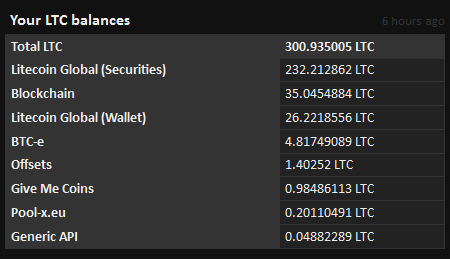
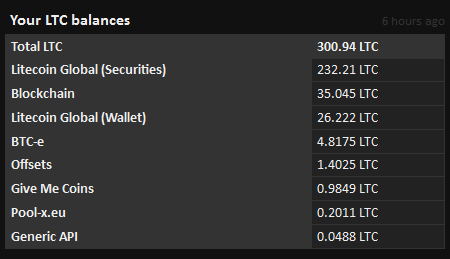
adding Your Currencies page, displaying all currency balances separated into tabs
git-svn-id: https://openclerk.googlecode.com/svn/trunk@414 b12a1112-ca08-e5dd-f792-535eff3abf3b

diff --git a/js/accounts.js b/js/accounts.js
@@ -73,7 +73,13 @@ $(document).ready(function() {
 		});
 
 		// sort by title on page load
-		$(headings[0]).find(".sort_up").click();
+		if ($(table).find("thead th.default_sort_up").length > 0) {
+			$(table).find("thead th.default_sort_up").find(".sort_up").click();
+		} else if ($(table).find("thead th.default_sort_down").length > 0) {
+			$(table).find("thead th.default_sort_down").find(".sort_down").click();
+		} else {
+			$(headings[0]).find(".sort_up").click();
+		}
 	});
 });
 
@@ -117,6 +123,11 @@ function sortBy(table, index, ascending) {
 function getSortValue(e) {
 	if ($(e).find("span.address code").length > 0) {
 		return $(e).find("span.address code").text().trim();
+	}
+	if ($(e).find("span.currency_format").length > 0 && $(e).find("span.currency_format").attr('title')) {
+		// currency value: strip out " cur"
+		var val = $(e).find("span.currency_format").attr('title').trim();
+		return parseFloat(val.substring(0, val.lastIndexOf(" ")).replace(",", ""));
 	}
 	if ($(e).find("span").length > 0 && $(e).find("span").attr('title')) {
 		return $(e).find("span").attr('title').trim();

diff --git a/default.css b/default.css
@@ -30,7 +30,7 @@ table.standard tr.odd { background: #292929; }
 table.standard th { min-width: 40px; }
 table.standard td { min-width: 60px; }
 table.standard td.date { white-space: nowrap; }
-table.standard td.number { text-align: right; }
+table.standard td.number, table.standard th.number { text-align: right; }
 table.full-width { width: 100%; }
 table.standard ul { margin: 0; padding: 0; margin-left: 1.1em; }
 

diff --git a/your_currencies.php b/your_currencies.php
@@ -1,0 +1,124 @@
+<?php
+
+/**
+ * This page displays all of your currencies with tabs and the current values of each
+ * type of balance.
+ */
+
+require(__DIR__ . "/inc/global.php");
+require_login();
+
+require(__DIR__ . "/layout/templates.php");
+page_header("Your Currencies", "page_your_currencies", array('jquery' => true, 'js' => array('common', 'accounts'), 'class' => 'report_page'));
+
+$user = get_user(user_id());
+
+require(__DIR__ . "/_profile_common.php");
+
+// get all pages
+$q = db()->prepare("SELECT * FROM graph_pages WHERE user_id=? AND is_removed=0 ORDER BY page_order ASC, id ASC");
+$q->execute(array(user_id()));
+$pages = $q->fetchAll();
+
+// get all of our latest balances
+$balances = array();
+$last_updated = array();
+require(__DIR__ . "/graphs/util.php");
+foreach (get_all_summary_currencies() as $cur => $summary) {
+	$balances[$cur] = array();
+}
+
+$q = db()->prepare("SELECT * FROM balances WHERE user_id=? AND is_recent=1");
+$q->execute(array(user_id()));
+while ($balance = $q->fetch()) {
+	if (isset($balances[$balance['currency']])) {
+		if (!isset($balances[$balance['currency']][$balance['exchange']])) {
+			$balances[$balance['currency']][$balance['exchange']] = 0;
+		}
+		$balances[$balance['currency']][$balance['exchange']] += demo_scale($balance['balance']);
+		$last_updated[$balance['exchange']] = $balance['created_at'];
+	}
+}
+
+// remove empty currencies
+$temp = array();
+foreach ($balances as $cur => $data) {
+	if ($data) {
+		$temp[$cur] = $data;
+	}
+}
+ksort($temp);
+$balances = $temp;
+
+// now print out tabs and tables for each currency
+
+?>
+
+<!-- page list -->
+<?php
+$page_id = -1;
+$your_currencies = true;
+require(__DIR__ . "/_profile_pages.php");
+?>
+
+<span style="display:none;" id="sort_buttons_template">
+<!-- heading sort buttons -->
+<span class="sort_up" title="Sort ascending">Asc</span><span class="sort_down" title="Sort descending">Desc</span>
+</span>
+
+<div class="tabs" id="tabs_your_currencies">
+	<ul class="tab_list">
+		<?php
+		/* each <li> must not have any whitespace between them otherwise whitespace will appear when rendered */
+		foreach ($balances as $currency => $data) {
+			echo '<li id="tab_currencies_' . htmlspecialchars($currency) . '"><span class="currency_name_' . htmlspecialchars($currency) . '">' . htmlspecialchars(strtoupper($currency)) . '</span></li>';
+		} ?>
+	</ul>
+
+	<ul class="tab_groups">
+		<?php foreach ($balances as $currency => $data) { ?>
+		<li id="tab_currencies_<?php echo htmlspecialchars($currency); ?>_tab">
+
+<table class="standard standard_account_list">
+<thead>
+	<tr>
+		<th class="source">Source</th>
+		<th class="updated">Last updated</th>
+		<th class="balance default_sort_down">Balance</th>
+	</tr>
+</thead>
+<tbody>
+<?php
+$count = 0;
+$sum = 0;
+foreach ($data as $exchange => $balance) {
+	$sum += $balance; ?>
+	<tr class="<?php echo $count % 2 == 0 ? "odd" : "even"; ?>">
+		<td><?php echo htmlspecialchars(get_exchange_name($exchange)); ?></td>
+		<td><?php echo recent_format_html($last_updated[$exchange]); ?></td>
+		<td class="number"><?php echo currency_format($currency, $balance, 4); ?></td>
+	</tr>
+<?php } ?>
+</tbody>
+<tfoot>
+	<tr>
+		<th colspan="2">Total <?php echo htmlspecialchars(get_currency_name($currency)); ?></th>
+		<th class="number"><?php echo currency_format($currency, $sum, 4); ?></th>
+	</tr>
+</tfoot>
+</table>
+
+		</li>
+		<?php } ?>
+	</ul>
+</div>
+
+<script type="text/javascript">
+$(document).ready(function() {
+	initialise_tabs('#tabs_your_currencies');
+});
+</script>
+
+<?php
+
+page_footer();

diff --git a/profile.php b/profile.php
@@ -28,21 +28,12 @@ if ($user['needs_managed_update']) {
 	update_user_managed_graphs($user);
 }
 
-// get all pages
-$q = db()->prepare("SELECT * FROM graph_pages WHERE user_id=? AND is_removed=0 ORDER BY page_order ASC, id ASC");
-$q->execute(array(user_id()));
-$pages = $q->fetchAll();
+require(__DIR__ . "/_profile_common.php");
 
 // reset stats
 if (get_site_config('timed_sql')) {
 	echo "<!-- " . db()->stats() . " -->\n";
 }
-
-// how many securities do we have?
-$q = db()->prepare("SELECT COUNT(*) AS c FROM securities WHERE user_id=? AND is_recent=1");
-$q->execute(array(user_id()));
-$count = $q->fetch();
-$securities_count = $count['c'];
 
 if (get_site_config('new_user_premium_update_hours') && strtotime($user['created_at']) >= strtotime("-" . get_site_config('new_user_premium_update_hours') . " hour")) {
 	// does a non-zero report exist yet for this user?
@@ -169,32 +160,14 @@ if ($pages) {
 
 	}
 
-	page_header(require_get("securities", false) ? $page_title : "Your Reports: " . $page_title, "page_profile", array('common_js' => true, 'jsapi' => true, 'jquery' => true, 'js' => 'profile'));
+	page_header(require_get("securities", false) ? $page_title : "Your Reports: " . $page_title, "page_profile", array('common_js' => true, 'jsapi' => true, 'jquery' => true, 'js' => 'profile', 'class' => 'report_page'));
 
 ?>
 
 <div id="page<?php echo htmlspecialchars($page_id); ?>">
 
-<!-- list of pages -->
-<ul class="page_list">
-<?php $first = true; foreach ($pages as $page) {
-	$args = array('page' => $page['id']);
-	if (require_get("demo", false)) {
-		$args['demo'] = require_get("demo");
-	} ?>
-	<li class="page_tab<?php echo htmlspecialchars($page['id']); ?><?php if (!require_get("securities", false) && (!$page_id || $page['id'] == $page_id)) echo " page_current"; ?>"><a href="<?php echo htmlspecialchars(url_for('profile', $args)); ?>">
-		<?php echo htmlspecialchars($page['title']); ?>
-	</a></li>
-<?php $first = false; } ?>
-	<?php
-	$args = array('securities' => 1);
-	if (require_get("demo", false)) {
-		$args['demo'] = require_get("demo");
-	} ?>
-	<li class="page_tabsecurities<?php if (require_get("securities", false)) echo " page_current"; ?> premium"><a href="<?php echo htmlspecialchars(url_for('profile', $args)); ?>">
-		Your Securities (<?php echo number_format($securities_count); ?>)
-	</a></li>
-</ul>
+<!-- page list -->
+<?php require(__DIR__ . "/_profile_pages.php"); ?>
 
 <?php if (!require_get("securities", false)) { ?>
 <div class="enable_editing">
@@ -276,7 +249,7 @@ if (!$graphs) { ?>
 <?php } else {
 	/* no pages */
 
-	page_header("Your Reports", "page_profile", array('common_js' => true, 'jsapi' => true, 'jquery' => true, 'js' => 'profile'));
+	page_header("Your Reports", "page_profile", array('common_js' => true, 'jsapi' => true, 'jquery' => true, 'js' => 'profile', 'class' => 'report_page'));
 	?>
 
 <div class="message">

diff --git a/_profile_pages.php b/_profile_pages.php
@@ -1,0 +1,28 @@
+
+<ul class="page_list">
+<?php $first = true; foreach ($pages as $page) {
+	$args = array('page' => $page['id']);
+	if (require_get("demo", false)) {
+		$args['demo'] = require_get("demo");
+	} ?>
+	<li class="page_tab<?php echo htmlspecialchars($page['id']); ?><?php if (!require_get("securities", false) && (!$page_id || $page['id'] == $page_id)) echo " page_current"; ?>"><a href="<?php echo htmlspecialchars(url_for('profile', $args)); ?>">
+		<?php echo htmlspecialchars($page['title']); ?>
+	</a></li>
+<?php $first = false; } ?>
+	<?php
+	$args = array();
+	if (require_get("demo", false)) {
+		$args['demo'] = require_get("demo");
+	} ?>
+	<li class="page_tabcurrencies<?php if (isset($your_currencies) && $your_currencies) echo " page_current"; ?>"><a href="<?php echo htmlspecialchars(url_for('your_currencies', $args)); ?>">
+		Your Currencies <span class="new">new</span>
+	</a></li>
+	<?php
+	$args = array('securities' => 1);
+	if (require_get("demo", false)) {
+		$args['demo'] = require_get("demo");
+	} ?>
+	<li class="page_tabsecurities<?php if (require_get("securities", false)) echo " page_current"; ?> premium"><a href="<?php echo htmlspecialchars(url_for('profile', $args)); ?>">
+		Your Securities (<?php echo number_format($securities_count); ?>)
+	</a></li>
+</ul>

diff --git a/templates/screenshots.php b/templates/screenshots.php
@@ -29,6 +29,8 @@
 			'text2' => 'Premium users can add technical indicators to graphs, such as Simple Moving Average (SMA), Bollinger Bands (BOLL) and Relative Strength Index (RSI).',
 			'url3' => 'img/screenshots/profile_securities.png',
 			'text3' => 'Premium users can also access an automatically-generated page listing all of their securities and their current market values.',
+			'url4' => 'img/screenshots/your_currencies.png',
+			'text4' => 'All users can also access a new "Your Currencies" page, displaying all of your current balances for each currency.',
 		),
 		'profile_historical' => array(
 			'title' => 'Historical',
@@ -65,6 +67,10 @@
 			<?php if (isset($data['url3'])) { ?>
 				<img src="<?php echo htmlspecialchars($data['url3']); ?>" class="image2">
 				<p><?php echo $data['text3']; ?></p>
+			<?php } ?>
+			<?php if (isset($data['url4'])) { ?>
+				<img src="<?php echo htmlspecialchars($data['url4']); ?>" class="image2">
+				<p><?php echo $data['text4']; ?></p>
 			<?php } ?>
 		</li>
 	<?php } ?>

diff --git a/layout/graphs.php b/layout/graphs.php
@@ -463,11 +463,11 @@ function render_graph($graph, $is_public = false) {
 									$table = array();
 									$sum = 0;
 									foreach ($data as $exchange_name => $exchange_data) {
-										$table[] = array($exchange_name, currency_format($currency, $exchange_data));
+										$table[] = array($exchange_name, currency_format($currency, $exchange_data, 4));
 										$sum += $exchange_data;
 									}
 									$head = array(
-										array("Total " . strtoupper($currency), currency_format($currency, $sum)),
+										array("Total " . strtoupper($currency), currency_format($currency, $sum, 4)),
 									);
 									render_table_vertical($graph, $table, $head);
 								}

diff --git a/layout/templates.php b/layout/templates.php
@@ -218,7 +218,7 @@ function currency_format($currency_code, $n, $precision = 8 /* must be 8 for iss
 		return "<span class=\"error\">" . $n . " $currency</span>";
 	}
 
-	return "<span class=\"" . strtolower($currency) . "_format\" title=\"" . number_format_autoprecision($n, 8) . " $currency\">" . number_format_precision($n, $precision) . " $currency</span>";
+	return "<span class=\"" . strtolower($currency) . "_format currency_format\" title=\"" . number_format_autoprecision($n, 8) . " $currency\">" . number_format_precision($n, $precision) . " $currency</span>";
 }
 
 function number_format_html($n, $precision) {

diff --git a/graphs/types.php b/graphs/types.php
@@ -244,7 +244,7 @@ function graph_types() {
 		'composition_ftc_daily' => 'composition_ltc_daily.png',
 		'composition_ppc_daily' => 'composition_ltc_daily.png',
 		'composition_nvc_daily' => 'composition_ltc_daily.png',
-		'composition_btc_table' => 'composition_ltc_table.png',
+		'composition_btc_table' => 'composition_btc_table.png',
 		'composition_ltc_table' => 'composition_ltc_table.png',
 		'composition_nmc_table' => 'composition_ltc_table.png',
 		'composition_ftc_table' => 'composition_ltc_table.png',

diff --git a/_profile_common.php b/_profile_common.php
@@ -1,0 +1,12 @@
+<?php
+
+// get all pages
+$q = db()->prepare("SELECT * FROM graph_pages WHERE user_id=? AND is_removed=0 ORDER BY page_order ASC, id ASC");
+$q->execute(array(user_id()));
+$pages = $q->fetchAll();
+
+// how many securities do we have?
+$q = db()->prepare("SELECT COUNT(*) AS c FROM securities WHERE user_id=? AND is_recent=1");
+$q->execute(array(user_id()));
+$count = $q->fetch();
+$securities_count = $count['c'];
